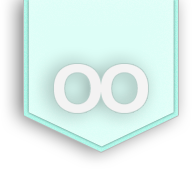
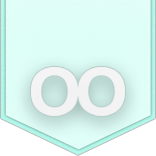
Got the navigation to work, responsive and hidpi

diff --git a/css/screen.css b/css/screen.css
@@ -47,6 +47,10 @@ table {
 	border-spacing: 0;
 }
 
+img {
+	max-width: 100%;
+}
+
 /*  site specific styles  */
 
 body {
@@ -65,6 +69,11 @@ body {
 	-moz-box-shadow: 0 3px 15px #999;
 }
 
+.img-shadow {
+	-webkit-filter: drop-shadow(0px 3px 15px #999);
+}
+
+
 .header {
 	background-image:url('/img/noise.png');
 	background-color: #d9d9d9;
@@ -72,8 +81,8 @@ body {
 }
 
 .name {
-	padding: 10px;
-	margin: 10px 0 30px 0;
+	padding: .625em;
+	margin: .625em 0 2em 0;
 }
 
 .name-head {
@@ -91,11 +100,13 @@ body {
 }
 
 .ribbon {
-	width: 169px;
+	width: 9.75em;
+	height: 9.75em;
 	position: absolute;
 	left:50%;
-    margin-left:-100px;
+    margin-left:-4.875em;
     z-index: 5;
+    text-align: center;
 }
 
 .nav ul {
@@ -107,44 +118,46 @@ body {
 }
 
 .nav-button {
-	width: 68px;
-	height: 68px;
-	border-radius: 34px;
-	-webkit-border-radius: 34px;
-	-moz-border-radius: 34px;
+	width: 4.25em;
+	height: 4.25em;
+	border-radius: 2.125em;
+	-webkit-border-radius: 2.125em;
+	-moz-border-radius: 2.125em;
 	text-indent: 100%;
 	white-space: nowrap;
 	overflow: hidden;	
 	background-position:center;
-	background-color: #808080;
+	background-color: #eeeeee;
+	border: .375em solid #808080;
 	background-repeat: no-repeat;
-	margin-left: 10px;
+	margin-left: .6em;
+	background-size: 90%;
 }
 
 .nav-button:hover {
-	background-color: #eea372;
+	border-color: #eea372;
 }
 
 #resume {
-	background-image:url('/img/resume.png');
+	background-image:url('/img/resume-icon.png');
 }
 
 #portfolio {
-	background-image:url('/img/portfolio.png');
+	background-image:url('/img/portfolio-icon.png');
 }
 
 #contact {
-	background-image:url('/img/contact.png');
+	background-image:url('/img/contact-icon.png');
 }
 
 .main-page {
 	background-color: #fff;
 	border: 1px solid #d1cfcf;
-	border-radius: 10px;
-	-webkit-border-radius: 10px;
-	-moz-border-radius: 10px;
+	border-radius: .625em;
+	-webkit-border-radius: .625em;
+	-moz-border-radius: .625em;
 	position: relative;
-	top: -20px;
+	top: -1.25em;
 	width: 95%;
 	max-width: 1140px;
 	margin: 0 auto;
@@ -214,7 +227,7 @@ body {
 	background-color: #545454;
 	border-top: 1px solid #bababa;
 	position: relative;
-	top: -30px;
+	top: -2em;
 	padding: 1.2em 0 4em 0;
 	color: #949494;
 	line-height: 1.2em;
@@ -234,14 +247,53 @@ body {
 
 
 
-@media handheld, only screen and (max-width: 767px) {
+@media handheld, only screen and (max-width: 767px), only screen and (min-device-width : 320px) and (max-device-width: 480px) {
 	.inset {
 		/* these override global .grid values to make a smaller grid within the page */
 		width: 100%;
 	}
 
-	.section {
-		padding-right: 20px;
+	.ribbon {
+		width: 6.25em;
+		height: 6.25em;
+	    margin-left:-3.125em;
 	}
 
+	.name {
+		text-align: center;
+			margin: 5em 0 .5em 0;
+	}
+
+	.nav {
+		text-align: center;
+		margin-bottom: 2em;
+	}
+
+	.nav ul {
+		float: none;		
+	}
+
+	.page-title {
+		margin: .75em 0 1.5em 0;
+	}
+
+	.section {
+		padding-right: 1.25em;
+	}
+
+}
+
+@media handheld, only screen and (-webkit-min-device-pixel-ratio : 1.5), only screen and (min-device-pixel-ratio : 1.5) {
+	body {
+		font-size: 250%;
+	}
+
+	.name {
+		text-align: center;
+			margin: 4em 0 .5em 0;
+	}	
+
+	.page-title {
+		margin: .75em 0 0 0;
+	}
 }

diff --git a/css/simplegrid.css b/css/simplegrid.css
@@ -126,7 +126,7 @@ body {
 	width: 58.33%
 }
 
-@media handheld, only screen and (max-width: 767px) {
+@media handheld, only screen and (max-width: 767px), only screen and (min-device-width : 320px) and (max-device-width: 480px) {
 
 	
 	.grid {

diff --git a/index.html b/index.html
@@ -17,7 +17,7 @@
 	</head>
 <body>
 	<div class="header">
-		<div class="ribbon">
+		<div class="ribbon img-shadow">
 			<img src="/img/ribbon.png" alt=""/>
 		</div>
 		<div class="grid grid-pad">
